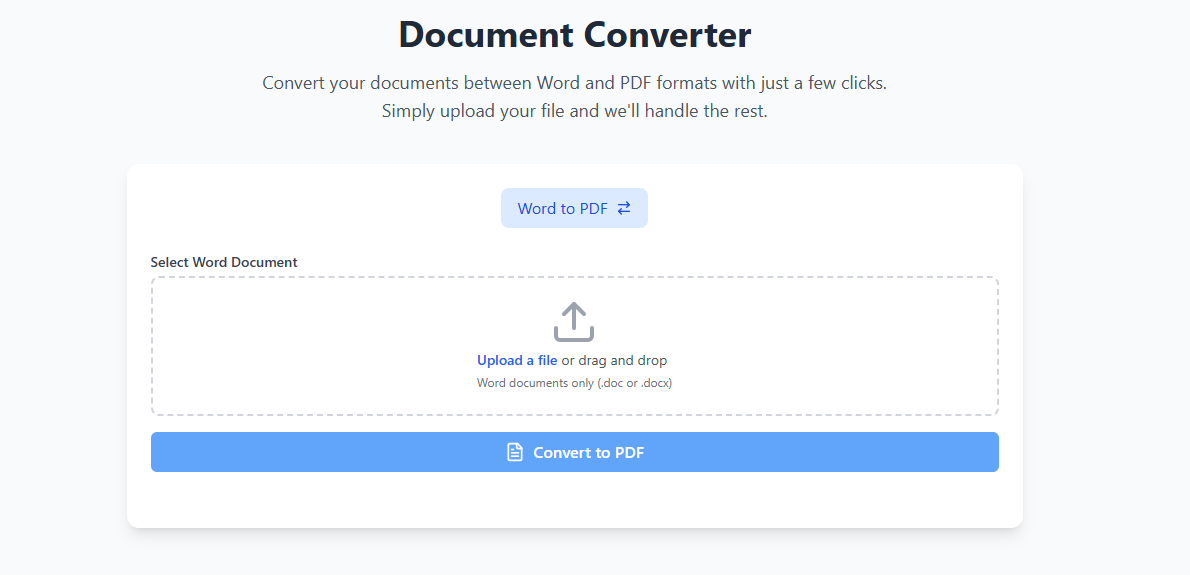
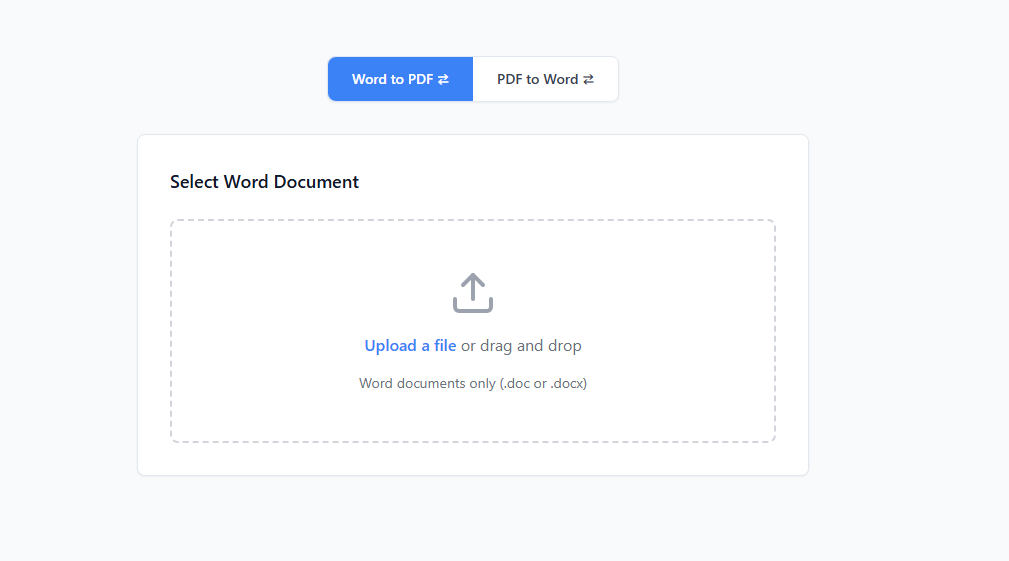
added

diff --git a/src/components/sections/Projects.jsx b/src/components/sections/Projects.jsx
@@ -137,7 +137,7 @@ const projects = [
     title: "Word To PDF Website",
     description: "A modern website for Word To PDF.",
     image:"12.png",
-    liveUrl: "https://word-to-pdf-rho.vercel.app/",
+    liveUrl: "https://word-to-pdf-chi.vercel.app/",
     category: ["website", "Word To PDF"],
     technologies: ["React", "Tailwind CSS", "Framer Motion"]
 },
